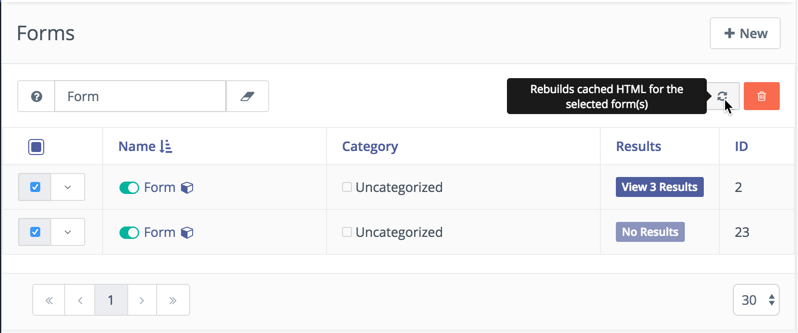
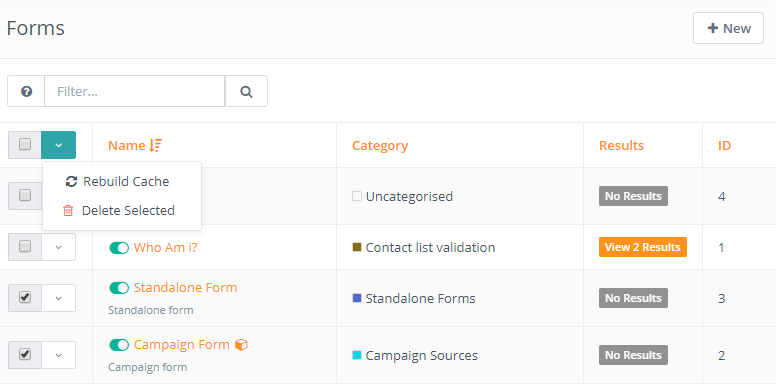
docs: :memo: change leadfield to contactfield
- [x] :globe_with_meridians: use standard example.com URL
- [x] move external image into repo
- [x] update rebuild form cache image

diff --git a/en/forms/manage_forms.md b/en/forms/manage_forms.md
@@ -10,7 +10,9 @@ The form overview provides a quick overview of the submissions received over a t
 
 A form can contain as many fields as needed. These fields can be laid out dynamically by the system or handled via HTML if you want more control.
 
-![](/forms/media/new-form.png)
+![new-form][new-form]
+
+[new-form]: </forms/media/new-form.png>
 
 #### Page Breaks
 
@@ -32,7 +34,7 @@ Results from a Mautic form can be re-posted to a 3rd party form using the new "P
 
 An email can be configured to send the results if the form fails to forward. 
  
-Each form field can be have it's name customized to match that of the recipient form/script. 
+Each form field can be have it's name customized to match that of the recipient _form/script_. 
 
 In addition to the form data, an array of `mautic_form` with details like ID, name, and the URL the form was submitted to (if available) along with `mautic_contact` with the details of the contact that submitted. 
 
@@ -55,15 +57,29 @@ The kiosk mode is helpful when you know that some form will be submitted from on
 
 #### No index mode
 
-In 2.15.0, mautic introduced the ability to disable search engines from indexing forms. With this option you can disable search engines from indexing `http(s)://yourmauticurl.com/form/{formid}` if set to "Yes".
+In 2.15.0, mautic introduced the ability to disable search engines from indexing forms. With this option you can disable search engines from indexing `http(s)://example.com/form/{formid}` if set to "Yes".
 
 ### Form Injection
 
 There are three ways you can use the form. You can copy the entire output or you can have the form injected dynamically using the provided javascript. These are two options for directly including the form on a page, you can alternatively embed the form directly in a Mautic landing page if you choose.
 
-![](http://drop.dbh.li/image/2M1q3T2T0Z0u/Image%202014-11-17%20at%204.20.56%20PM.png)
+![form injection][injection]
 
-**It is recommended not to paste the injection code twice, it risks creating troubles on the submit form action when mandatory fields are submitted empty.**
+[injection]: </forms/media/injection.png>
+
+> **ProTip**:
+> **It is recommended NOT to paste the injection code twice, it risks creating troubles on the submit form action when mandatory fields are submitted empty.**
+
+```html
+<script>
+    (function(w,d,t,u,n,a,m){w['MauticTrackingObject']=n;
+        w[n]=w[n]||function(){(w[n].q=w[n].q||[]).push(arguments)},a=d.createElement(t),
+        m=d.getElementsByTagName(t)[0];a.async=1;a.src=u;m.parentNode.insertBefore(a,m)
+    })(window,document,'script','https://example.com/mtc.js','mt');
+
+    mt('send', 'pageview');
+</script>
+```
 
 ### Form results
 
@@ -81,28 +97,26 @@ It is possible to choose a theme for a form. If you do so and the theme supports
 
 It is possible to pre-populate the value of a form field from the URL query parameters.
 
-The contact field's alias can be obtained from the table when viewing Contacts -> Manage Fields. The form field's name is stored as the alias in the database and is auto generated from the field's label; you may have to look at the source of your form to get the exact name (open the form and click the preview button). For example, here is a sample html section taken from a form. The name to use is what's within `mauticform[FIELDNAME]`.
+The contact field's alias can be obtained from the table when viewing Contacts -> Manage Fields. The form field's name is stored as the alias in the database and is auto generated from the field's label; you may have to look at the source of your form to get the exact name (open the form and click the preview button). For example, here is a sample html section taken from a form. The name to use is `FIELDNAME` from the value of the `<input name=mauticform[FIELDNAME]` attribute.
 
-```
-<div class="mauticform-row mauticform-email mauticform-row-email" id="mauticform_email">
-    <label id="mauticform_label_email" for="mauticform_input_email" class="mauticform-label" "="">Email</label>
-    <input id="mauticform_input_email" name="mauticform[email]" value="" class="mauticform-input" type="email">
+```html
+<div id="mauticform_democampaignform_email" data-validate="email" data-validation-type="email" class="mauticform-row mauticform-email mauticform-field-1 mauticform-required">
+    <label id="mauticform_label_democampaignform_email" for="mauticform_input_democampaignform_email" class="mauticform-label">Email</label>
+    <input id="mauticform_input_democampaignform_email" name="mauticform[email]" value="" placeholder="user@example.com" class="mauticform-input" type="email">
+    <span class="mauticform-errormsg" style="display: none;">This is required.</span>
 </div>
 ```
 
 #### Pre-populate the values automatically in an email
 
-Embed the tokens {leadfield=FIELDALIAS|true}, one for each contact specific information you want to pre-populate the form with, into the URL, assigning them to the name of your form field.The |true tells Mautic to URL encode the value so that it works in the browser.
-```
-{pagelink=1}&email={leadfield=email|true}
-```
-In the rendered email sent to a contact, the URL may be converted into something like:
-```
-http://my-mautic.com/my-landing-page?ct=A_REALLY_LONG_STRING&email=contactemail%40gmail.com
-```
-So, what happened is `{pagelink=1}` was converted into the landing page URL and had `?ct=A_REALLY_LONG_STRING` appended. The really long string is encoded information about the contact which includes the contact ID. Each `{leadfield=FIELDALIAS}` was replaced with the contact's data. When the contact clicks the link, they will be taken to the landing page with the embedded form, and the form's 'email' input will be pre-populated with the value passed through the URL.
+Embed the tokens `{contactfield=FIELDALIAS|true}`, one for each contact specific information you want to pre-populate the form with, into the URL, assigning them to the name of your form field.The |true tells Mautic to URL encode the value so that it works in the browser.
+
+    {pagelink=1}&email={contactfield=email|true}
+
+In the rendered email sent to a contact, the URL may be converted into something like: `http(s)://example.com/my-landing-page?ct=A_REALLY_LONG_STRING&email=contactemail%40gmail.com`
+
+So, what happened is `{pagelink=1}` was converted into the landing page URL and had `?ct=A_REALLY_LONG_STRING` appended. The really long string is encoded information about the contact which includes the contact ID. Each `{contactfield=FIELDALIAS}` was replaced with the contact's data. When the contact clicks the link, they will be taken to the landing page with the embedded form, and the form's `email` input will be pre-populated with the value passed through the URL.
 
 #### Remove Contact from Do Not Contact (undo unsubscribe)
 
 Mautic 2.3 added new action **Remove Contact from Do Not Contact**. If a contact unsubscribes from your email marketing, you can't send another emails.  Use action **Remove Contact from Do Not Contact** in your forms and the contact will receive email again.
-

diff --git a/en/forms/README.md b/en/forms/README.md
@@ -16,7 +16,7 @@ A **Standalone Form** can push a contact into a segment, but not into a campaign
 
 This is usually caused by URL mismatch. You can confirm this by going into the form preview page. Open the browser dev tools by pressing F12 on Windows or Linux or Option+Command+I on Mac. Go to the console tab and you should see 404 error on form JS.
 
-To fix that, go to the Mautic Configuration and make sure the **Site URL** field is the correct Mautic URL root address (the one you see before the `/s/config/edit` part in the browser address bar) including the http:// or https://. Save the configuration.
+To fix that, go to the Mautic Configuration and make sure the **Site URL** field is the correct Mautic URL root address (the one you see before the `/s/config/edit` part in the browser address bar) including the `http://` or `https://`. Save the configuration.
 
 Now go to the Components / Forms and rebuild the forms HTML.
 
@@ -34,7 +34,7 @@ Here is a short example how you can do that:
 
 ```html
 <html>
-  <script type="text/javascript" src="https://<mautic-instance>/form/generate.js?id=2"></script>
+  <script type="text/javascript" src="https://example.com/form/generate.js?id=2"></script>
 
   <body>
   {mauticform id=2 style=modal element=.call-to-action-btn} <!-- setup modal form -->
